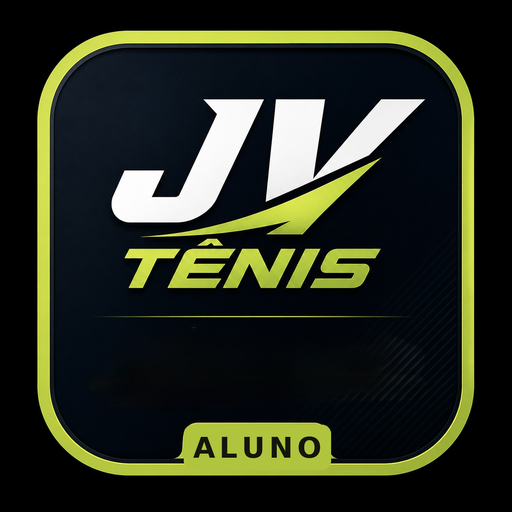
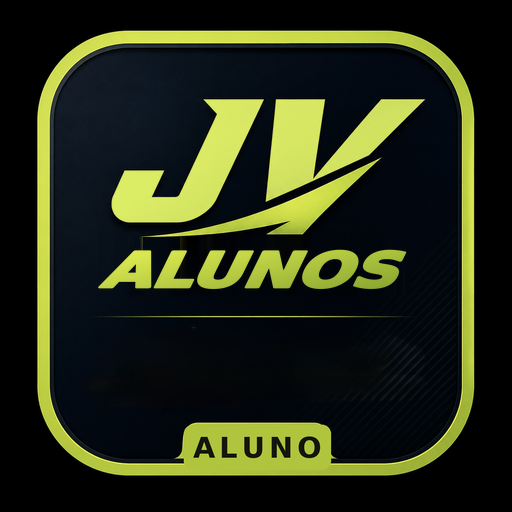
Icones novos da gestao e do aluno, e o de 180 que faltava para o iPhone
Conferi arquivo por arquivo contra o que estava publicado, e o que mudou de
verdade foi isto:

GESTAO — os 4 icones e as 7 telas de abertura, todos trocados. A arte passou
de "JV TENIS" com etiqueta pequena para "JV TENIS" com GESTAO em destaque.

ALUNO — idem, os 4 icones e as 7 telas. Deixou de ser "JV TENIS / ALUNO" e
passou a ser "JV ALUNOS".

FAMILIA — byte a byte identico ao que ja estava la. Nada a fazer, como o
proprio LEIA-ME do arquivo dizia.

O 180 E NOVO, E RESOLVE UM DEFEITO ANTIGO

Nao existia jv-icone-<app>-180.png. O <head> apontava o apple-touch-icon
para o de 512, e o iPhone encolhia aquilo na marra para caber na Tela de
Inicio — o desenho saia mole. Agora cada app tem o 180 no tamanho exato e o
<head> aponta para ele. Os dois service workers guardam o arquivo novo na
reserva (cache v6 na gestao, v4 no aluno).

EXERCICIOS FICA GUARDADO, MAS NAO APARECE EM LUGAR NENHUM

O arquivo trouxe um conjunto completo para um app-exercicios: 5 icones, 7
telas de abertura e o manifesto. Esse app NAO EXISTE no repositorio — nao ha
index.html, nao ha codigo. Os arquivos ficam em app-exercicios/ para nao se
perderem, junto do LEIA-ME que veio com eles, mas ninguem os carrega ainda.
Nao inventei o app.

CONFERIDO

Os quatro manifestos apontam para arquivos que existem. Todos os links de
icone e de tela de abertura do <head> dos dois apps resolvem. Abrindo os dois
no navegador: apple-touch-icon no 180, favicon no 512, 7 telas de abertura
[…]

Changed region(s): [[0.2188, 0.1875, 0.8438, 0.4375], [0.1875, 0.4688, 0.8125, 0.5625]]

diff --git a/app-aluno/index.html b/app-aluno/index.html
@@ -19,7 +19,9 @@
 <meta name="twitter:title" content="JV Tênis · Aluno">
 <meta name="twitter:description" content="Academia João Victor Tênis — suas aulas, seus horários e sua evolução na palma da mão.">
 <meta name="twitter:image" content="https://joaovictorteniscoach-cpu.github.io/familiajk/app-aluno/share-aluno.jpg">
-<link rel="apple-touch-icon" href="jv-icone-aluno.png">
+<!-- O iPhone pede 180x180 para a Tela de Inicio. Sem este, ele encolhia
+     o de 512 na marra e o desenho saia borrado. -->
+<link rel="apple-touch-icon" sizes="180x180" href="jv-icone-aluno-180.png">
 <link rel="icon" href="jv-icone-aluno.png">
 <meta name="apple-mobile-web-app-capable" content="yes">
 <meta name="apple-mobile-web-app-status-bar-style" content="black-translucent">
@@ -881,7 +883,7 @@ const MYKEY='jvt-aluno-meu';           // código + pedidos pendentes (pessoal, 
    andar iguais: se este ficasse atrás da Gestão, o aluno veria "desatualizado"
    sem estar. Ao publicar, suba os dois (checar-versao.py exige que sejam
    iguais). Aqui o aluno só LÊ: quem grava é a Gestão. */
-const VERSAO='2026-09-18-1';
+const VERSAO='2026-09-23-1';
 const ENDERECO_ATUAL='https://joaovictorteniscoach-cpu.github.io/familiajk/app-aluno/';
 const MESES=['Janeiro','Fevereiro','Março','Abril','Maio','Junho','Julho','Agosto','Setembro','Outubro','Novembro','Dezembro'];
 const DIAS=['dom','seg','ter','qua','qui','sex','sáb'];

diff --git a/app-gestao/index.html b/app-gestao/index.html
@@ -19,7 +19,9 @@
 <meta name="twitter:title" content="JV Tênis · Gestão">
 <meta name="twitter:description" content="Painel da Academia João Victor Tênis — aulas, alunos, agenda e caixa em um só lugar.">
 <meta name="twitter:image" content="https://joaovictorteniscoach-cpu.github.io/familiajk/app-gestao/share-gestao.jpg">
-<link rel="apple-touch-icon" href="jv-icone-gestao.png">
+<!-- O iPhone pede 180x180 para a Tela de Inicio. Sem este, ele encolhia
+     o de 512 na marra e o desenho saia borrado. -->
+<link rel="apple-touch-icon" sizes="180x180" href="jv-icone-gestao-180.png">
 <link rel="icon" href="jv-icone-gestao.png">
 <meta name="apple-mobile-web-app-capable" content="yes">
 <meta name="apple-mobile-web-app-status-bar-style" content="black-translucent">

diff --git a/app-gestao/lib/app-gestao.js b/app-gestao/lib/app-gestao.js
@@ -15,7 +15,7 @@ const BOOKKEY='jvtenis-agendamentos';
    É o carimbo da PUBLICAÇÃO, não deste arquivo: os dois apps comparam com o
    mesmo valor na nuvem, então têm de andar iguais mesmo que só um mude.
    Ao publicar, suba os dois — ferramentas/checar-versao.py exige. */
-const VERSAO='2026-09-18-1';
+const VERSAO='2026-09-23-1';
 const MESES=['Janeiro','Fevereiro','Março','Abril','Maio','Junho','Julho','Agosto','Setembro','Outubro','Novembro','Dezembro'];
 const DIAS=['dom','seg','ter','qua','qui','sex','sáb'];
 const HORAS=['06:00','07:00','08:00','09:00','10:00','11:00','12:00','13:00','14:00','14:30','15:00','15:30','16:00','17:00','18:00','19:00','19:30','20:00','20:30'];

diff --git a/app-gestao/sw-gestao.js b/app-gestao/sw-gestao.js
@@ -1,10 +1,11 @@
 /* Service Worker — Academia João Victor Tênis (app do gestao)
    Estratégia: network-first (sempre tenta a versão nova online),
    com cache de reserva para abrir offline. NÃO intercepta o Firebase. */
-const CACHE = 'jvtenis-gestao-v5';
+const CACHE = 'jvtenis-gestao-v6';
 // o visual, os icones e agora o codigo do app moram em arquivo proprio:
 // entram na reserva para o app abrir offline inteiro
 const SHELL = ['./', './manifest-gestao.webmanifest', './jv-icone-gestao.png',
+               './jv-icone-gestao-180.png',
                './lib/estilo.css', './lib/icones.js', './lib/app-gestao.js'];
 
 self.addEventListener('install', e => {

diff --git a/app-aluno/sw-aluno.js b/app-aluno/sw-aluno.js
@@ -1,8 +1,8 @@
 /* Service Worker — Academia João Victor Tênis (app do aluno)
    Estratégia: network-first (sempre tenta a versão nova online),
    com cache de reserva para abrir offline. NÃO intercepta o Firebase. */
-const CACHE = 'jvtenis-aluno-v3';
-const SHELL = ['./', './manifest-aluno.webmanifest', './jv-icone-aluno.png'];
+const CACHE = 'jvtenis-aluno-v4';
+const SHELL = ['./', './manifest-aluno.webmanifest', './jv-icone-aluno.png', './jv-icone-aluno-180.png'];
 
 self.addEventListener('install', e => {
   self.skipWaiting();
